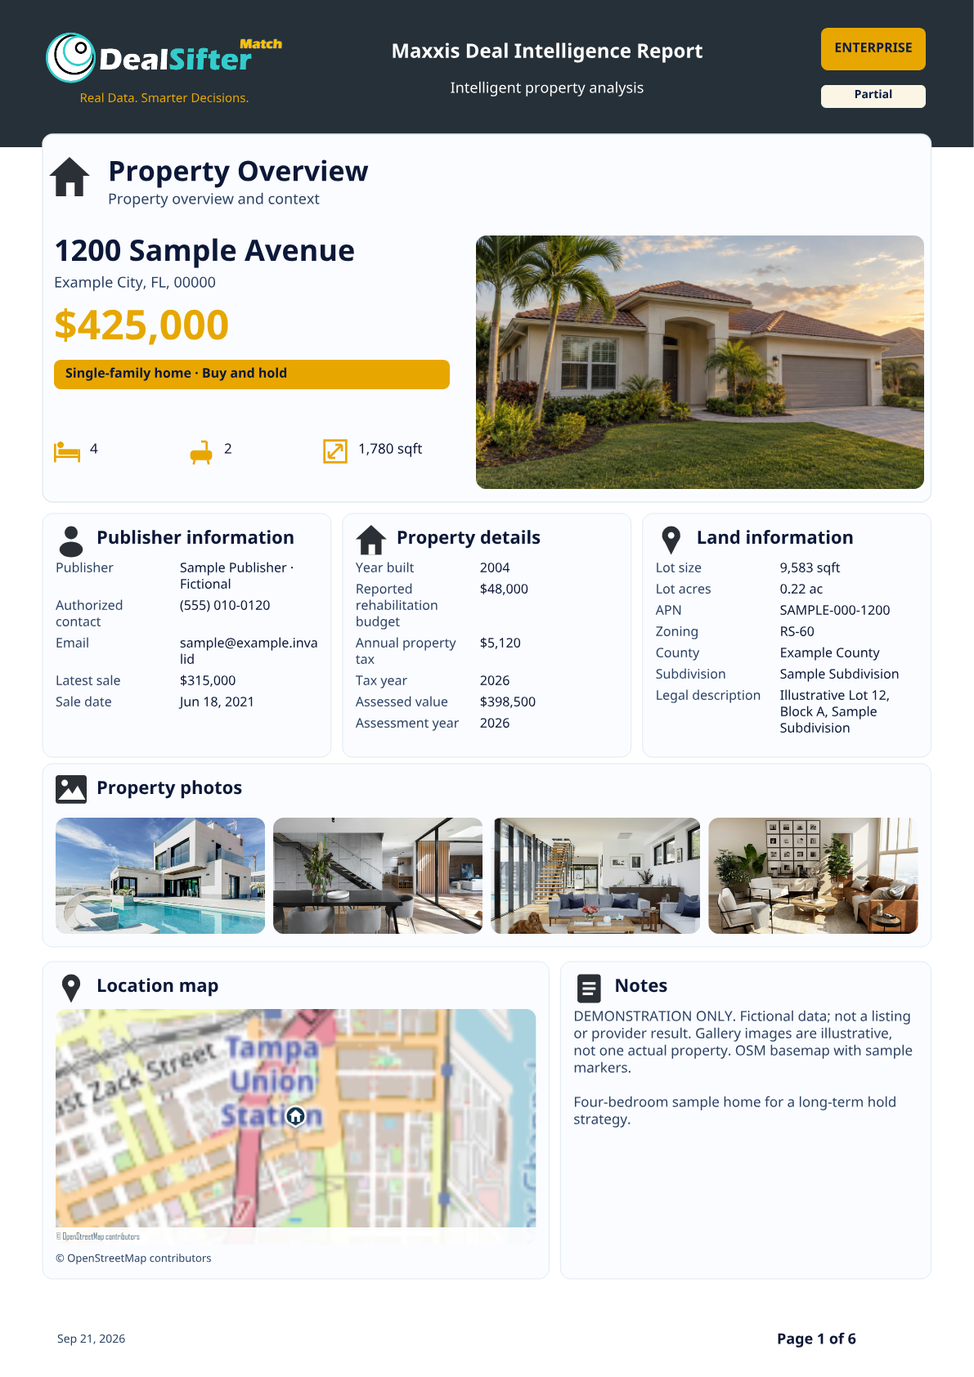
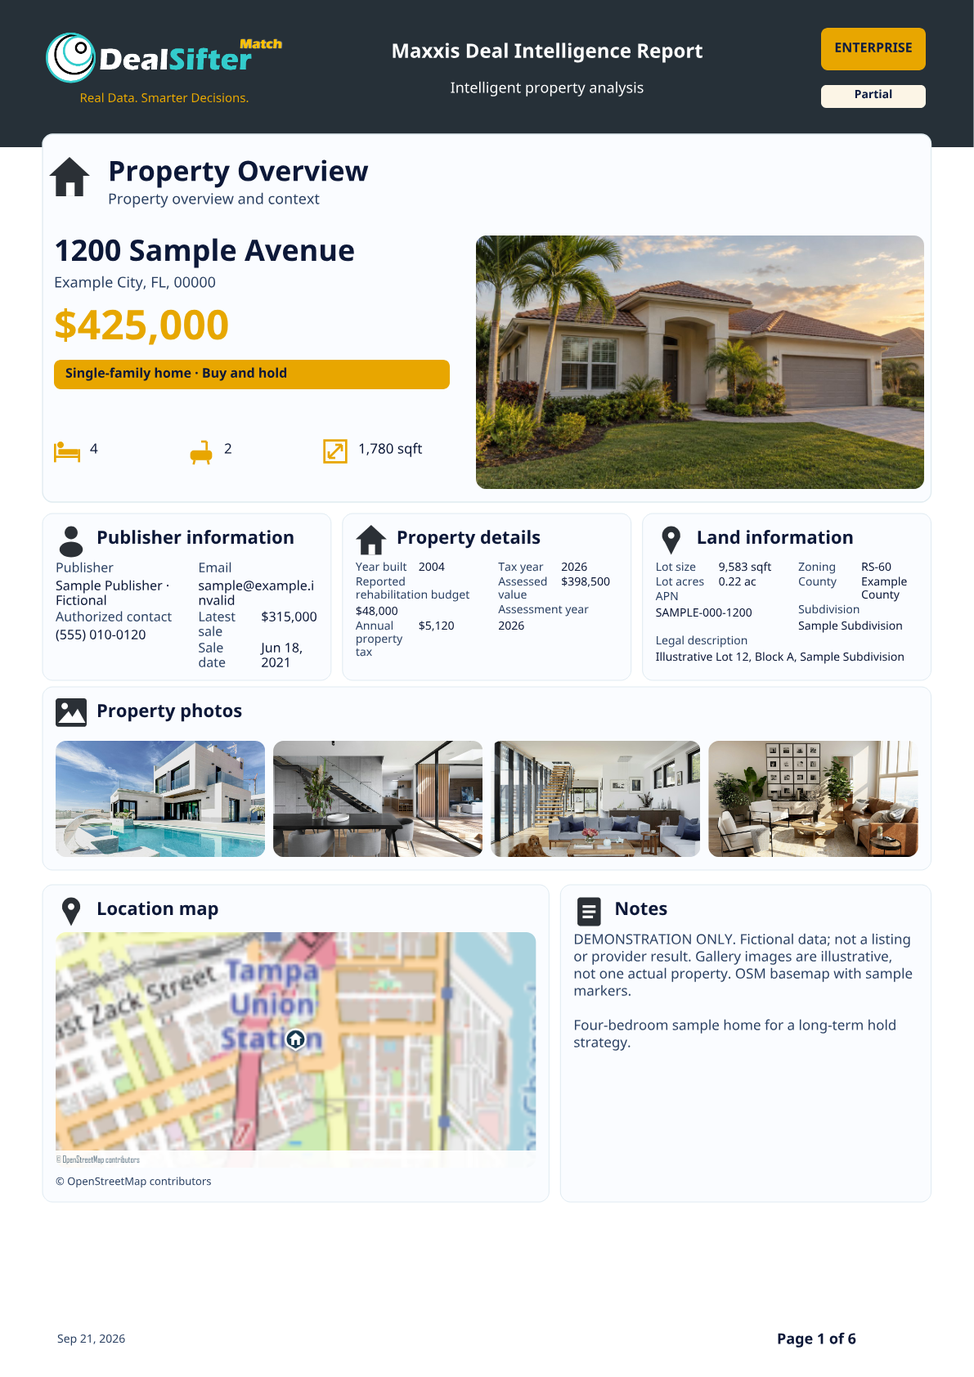
fix(reports): constrain overview facts and expand legal text

Changed region(s): [[0.0311, 0.4014, 0.9631, 0.9264]]

diff --git a/src/features/maxxis/export/referenceCloneComposition.ts b/src/features/maxxis/export/referenceCloneComposition.ts
@@ -2,6 +2,7 @@ import { ReportBrandShell } from './reportBrandShell';
 import { composeReportContent, readableReportDate, type ContentBlock } from './reportContentPlan';
 import { REFERENCE_DESIGN as DESIGN } from './reportReferenceDesign';
 import type { ReportRow } from './reportIntegrityTypes';
+import { layoutReportFacts } from './reportFactLayout';
 type Box = {
   x: number;
   y: number;
@@ -119,28 +120,27 @@ export class ReferenceCloneComposition extends ReportBrandShell {
     return field && labels[field] ? this.t(...labels[field]) : row.label;
   }
   private rowHeight(row: ReportRow, width: number, size = this.font) {
-    return Math.max(this.h(this.keyLabel(row), width * .43, size), this.h(row.value, width * .57 - 7, size)) + 3;
+    return this.factRowsPlan([row], width, size).height;
   }
-  private rows(rows: ReportRow[], b: Box, id: string, size = this.font, columns = 1) {
-    const cell = (b.w - (columns - 1) * 14) / columns;
-    let y = b.y;
-    for (let i = 0; i < rows.length; i += columns) {
-      const pair = rows.slice(i, i + columns),
-        height = Math.max(...pair.map(row => this.rowHeight(row, cell, size)));
-      pair.forEach((row, index) => {
-        const x = b.x + index * (cell + 14);
-        this.write(this.keyLabel(row), x, y, cell * .43, id, size, false, BODY, b.y + b.h);
-        this.write(row.value, x + cell * .43 + 7, y, cell * .57 - 7, id, size, false, INK, b.y + b.h);
-      });
-      y += height;
+  private factRowsPlan(rows: ReportRow[], width: number, size: number, columns = 1, balanced = false) {
+    return layoutReportFacts(rows, width, columns, (text, w) => this.h(text, w, size), row => this.keyLabel(row), balanced);
+  }
+  private rows(rows: ReportRow[], b: Box, id: string, size = this.font, columns = 1, balanced = false) {
+    const plan = this.factRowsPlan(rows, b.w, size, columns, balanced);
+    for (const cell of plan.cells) {
+      const x = b.x + cell.x, y = b.y + cell.y;
+      if (cell.stacked) {
+        const labelEnd = this.write(this.keyLabel(cell.row), x, y, cell.width, id, size, false, BODY, b.y + b.h);
+        this.write(cell.row.value, x, labelEnd + 2, cell.width, id, size, false, INK, b.y + b.h);
+      } else {
+        this.write(this.keyLabel(cell.row), x, y, cell.width * .43, id, size, false, BODY, b.y + b.h);
+        this.write(cell.row.value, x + cell.width * .43 + 7, y, cell.width * .57 - 7, id, size, false, INK, b.y + b.h);
+      }
     }
-    return y;
+    return b.y + plan.height;
   }
   private factsHeight(rows: ReportRow[], width: number, size = this.font, columns = 1) {
-    let h = 0;
-    const cell = (width - (columns - 1) * 14) / columns;
-    for (let i = 0; i < rows.length; i += columns) h += Math.max(...rows.slice(i, i + columns).map(row => this.rowHeight(row, cell, size)));
-    return h;
+    return this.factRowsPlan(rows, width, size, columns).height;
   }
   private range(range: NonNullable<ContentBlock['range']>, b: Box, id: string) {
     const y = b.y + 17;
@@ -494,11 +494,12 @@ export class ReferenceCloneComposition extends ReportBrandShell {
       this.cursor += height + G;
     }
   }
-  private overview(blocks: ContentBlock[]) {
+  private async overview(blocks: ContentBlock[], yieldRendering: () => Promise<void>) {
     const basic = this.vm.reportType === 'PROPERTY_RELEASE',
       p = this.vm.property,
       hero = basic ? DESIGN.release.heroHeight : this.brief ? 132 : !p.photos.length ? 124 : this.enterprise ? 155 : 150;
     this.chapter(this.t('Property Overview', 'Property Overview', 'Property Overview'), this.t('Informações gerais do imóvel', 'Property overview and context', 'Información general del inmueble'), 'home', false, hero);
+    await yieldRendering();
     const top = this.cursor,
       textWidth = p.photos.length ? 246 : W - 14,
       photoX = 291,
@@ -532,6 +533,7 @@ export class ReferenceCloneComposition extends ReportBrandShell {
       h: hero
     }, 1);
     this.used.add('property-overview');
+    await yieldRendering();
     const facts = blocks.filter(block => block.id.startsWith('property-group-'));
     const owner = facts.filter(block => /publisher|publicador/i.test(block.title)),
       sales = facts.filter(block => /sale history|histórico|historial/i.test(block.title));
@@ -550,9 +552,31 @@ export class ReferenceCloneComposition extends ReportBrandShell {
       size = basic ? 7 : 8;
     const weight = groups.reduce((sum, group) => sum + (group === compactRecords ? 2 : 1), 0) || 1;
     const widths = groups.map(group => (W - (count - 1) * G) * (group === compactRecords ? 2 : 1) / weight);
-    const fullHeights = groups.map((group, index) => 38 + this.factsHeight(group.flatMap(block => block.rows || []), widths[index] - 22, size, group === compactRecords ? DESIGN.release.recordsColumns : 1));
-    const factHeight = !groups.length ? 0 : basic ? Math.max(86, ...fullHeights) : this.brief ? Math.max(86, ...fullHeights) : Math.max(100, ...fullHeights),
-      factsTop = top + hero + DESIGN.overview.paddingBottom + DESIGN.overview.factsGap;
+    const priorLineGap = this.flow.lineGap;
+    this.flow.lineGap = DESIGN.facts.lineGap;
+    const factsTop = top + hero + DESIGN.overview.paddingBottom + DESIGN.overview.factsGap,
+      maxFactHeight = Math.max(0, DESIGN.facts.bottom - factsTop),
+      maxBodyHeight = maxFactHeight - DESIGN.facts.headerHeight - DESIGN.facts.bottomPadding;
+    const plans = groups.map((group, index) => {
+      const rows = group.flatMap(block => block.rows || []), width = widths[index] - 16;
+      let columns = group === compactRecords ? DESIGN.release.recordsColumns : 1, fontSize = size;
+      let layout = this.factRowsPlan(rows, width, fontSize, columns, true);
+      if (layout.height > maxBodyHeight && columns === 1) {
+        columns = 2;
+        layout = this.factRowsPlan(rows, width, fontSize, columns, true);
+      }
+      if (layout.height > maxBodyHeight && fontSize > DESIGN.facts.minimumFontSize) {
+        fontSize = DESIGN.facts.minimumFontSize;
+        layout = this.factRowsPlan(rows, width, fontSize, columns, true);
+      }
+      let shown = rows.length;
+      while (shown && layout.height > maxBodyHeight) {
+        shown--;
+        layout = this.factRowsPlan(rows.slice(0, shown), width, fontSize, columns, true);
+      }
+      return { rows: rows.slice(0, shown), tail: rows.slice(shown), layout, columns, fontSize };
+    });
+    const factHeight = !groups.length ? 0 : Math.min(maxFactHeight, Math.max(basic || this.brief ? 86 : 100, ...plans.map(plan => DESIGN.facts.headerHeight + plan.layout.height + DESIGN.facts.bottomPadding)));
     groups.forEach((group, index) => {
       const width = widths[index];
       const b = {
@@ -564,33 +588,11 @@ export class ReferenceCloneComposition extends ReportBrandShell {
       const title = group === publisher ? this.t('Informações do publicador', 'Publisher information', 'Información del publicador') : group === physical ? this.t('Detalhes do imóvel', 'Property details', 'Detalles del inmueble') : group === taxes || group === compactRecords ? this.t('Registros fiscais', 'Tax records', 'Registros fiscales') : this.t('Dados do terreno', 'Land information', 'Datos del terreno');
       const id = 'overview-facts-' + index,
         body = this.frame(b, title, group === publisher ? 'user' : group === physical ? 'home' : 'pin', id);
-      let rowY = body.y;
-      if (group === compactRecords) {
-        rowY = this.rows(group.flatMap(block => block.rows || []), body, id, size, DESIGN.release.recordsColumns);
-        group.forEach(block => this.used.add(block.id));
-      } else for (const block of group) {
-        const shown: ReportRow[] = [],
-          tail: ReportRow[] = [];
-        for (const row of block.rows || []) {
-          const h = this.rowHeight(row, body.w, size);
-          if (!tail.length && rowY + h <= b.y + b.h - 9) {
-            shown.push(row);
-            rowY += h;
-          } else tail.push(row);
-        }
-        const start = rowY - shown.reduce((n, row) => n + this.rowHeight(row, body.w, size), 0);
-        if (shown.length) this.rows(shown, {
-          ...body,
-          y: start,
-          h: b.y + b.h - start - 8
-        }, id, size);
-        if (tail.length) this.details.push({
-          ...block,
-          id: block.id + '-continued',
-          rows: tail
-        });
-        this.used.add(block.id);
-      }
+      body.h = b.h - DESIGN.facts.headerHeight - DESIGN.facts.bottomPadding;
+      const plan = plans[index];
+      let rowY = this.rows(plan.rows, body, id, plan.fontSize, plan.columns, true);
+      if (plan.tail.length) this.details.push({ id: id + '-continued', title, kind: 'facts', rows: plan.tail, readingSection: 1 });
+      group.forEach(block => this.used.add(block.id));
       if (group === physical) {
         const extra: ReportRow[] = [{
           label: this.t('Tipo', 'Property type', 'Tipo'),
@@ -598,19 +600,24 @@ export class ReferenceCloneComposition extends ReportBrandShell {
           evidenceRefs: ['property:identity']
         }, ...metrics];
         for (const row of extra) {
-          const h = this.rowHeight(row, body.w, size);
+          const h = this.rowHeight(row, body.w, plan.fontSize);
           if (rowY + h <= b.y + b.h - 9) {
             this.rows([row], {
               ...body,
               y: rowY,
               h: b.y + b.h - rowY - 8
-            }, id, size);
+            }, id, plan.fontSize);
             rowY += h;
           }
         }
       }
       this.audit(id, title, 'reference-facts', b, 1);
+      const entry = this.flow.audit.sections.at(-1)!;
+      entry.selectedFontSize = plan.fontSize;
+      entry.factColumns = plan.columns;
     });
+    this.flow.lineGap = priorLineGap;
+    await yieldRendering();
     taxes.forEach(block => this.used.add(block.id));
     let next = factsTop + factHeight + DESIGN.gallery.gapBefore;
     const gallery = p.photos.slice(1, 5);
@@ -624,7 +631,10 @@ export class ReferenceCloneComposition extends ReportBrandShell {
         },
         body = this.frame(b, this.t('Fotos do imóvel', 'Property photos', 'Fotos del inmueble'), 'photos', 'property-gallery');
       const cell = (body.w - (gallery.length - 1) * 5) / gallery.length;
-      gallery.forEach((photo, i) => this.flow.image(photo, body.x + i * (cell + 5), b.y + DESIGN.gallery.imageTop, cell, height - DESIGN.gallery.imageTop - DESIGN.gallery.paddingBottom, 'cover'));
+      for (const [i, photo] of gallery.entries()) {
+        this.flow.image(photo, body.x + i * (cell + 5), b.y + DESIGN.gallery.imageTop, cell, height - DESIGN.gallery.imageTop - DESIGN.gallery.paddingBottom, 'cover');
+        await yieldRendering();
+      }
       this.audit('property-gallery', 'Property photos', 'photos', b, 1);
       next += height + 9;
     }
@@ -659,6 +669,7 @@ export class ReferenceCloneComposition extends ReportBrandShell {
       this.write('© OpenStreetMap contributors', body.x, b.y + b.h - 16, body.w, map!.id, 6.5, false, BODY, b.y + b.h);
       this.audit(map!.id, map!.title, 'map', b, 1);
       this.used.add(map!.id);
+      await yieldRendering();
     }
     if (map && !showMap) this.used.add(map.id);
     if (note) {
@@ -1338,7 +1349,7 @@ export class ReferenceCloneComposition extends ReportBrandShell {
       themed = this.enterprise && analytical;
     // Sparse reports keep the same identity without reserving empty analytical panels.
     this.brief = !analytical;
-    this.overview(blocks);
+    await this.overview(blocks, yieldRendering);
     await yieldRendering();
     if (this.vm.reportType === 'PROPERTY_RELEASE') {
       const tail = [...this.details, ...blocks.filter(block => !this.used.has(block.id) && block.id !== 'report-location')];

diff --git a/src/features/maxxis/export/reportFactLayout.ts b/src/features/maxxis/export/reportFactLayout.ts
@@ -1,0 +1,53 @@
+import type { ReportRow } from './reportIntegrityTypes';
+
+type Cell = { row: ReportRow; x: number; y: number; width: number; height: number; stacked: boolean };
+type Measure = (text: string, width: number) => number;
+
+export const isFullWidthFact = (row: ReportRow) => row.evidenceRefs.includes('fact:legalDescription');
+
+/** The drawing and height calculation share one plan; long legal text never uses a value subcolumn. */
+export function layoutReportFacts(rows: readonly ReportRow[], width: number, columns: number, measure: Measure, label: (row: ReportRow) => string, balanced = false) {
+  const cells: Cell[] = [], gap = 14, rowGap = balanced ? 1 : 3, cellWidth = (width - (columns - 1) * gap) / columns;
+  const stacked = (row: ReportRow, w: number) => {
+    if (isFullWidthFact(row)) return true;
+    if (!balanced || columns < 2) return false;
+    const lineHeight = measure('M', w);
+    return label(row).split(/\s+/).some(word => measure(word, w * .43) > lineHeight)
+      || row.value.split(/\s+/).some(word => measure(word, w * .57 - 7) > lineHeight);
+  };
+  const height = (row: ReportRow, w: number) => stacked(row, w)
+    ? measure(label(row), w) + 2 + measure(row.value, w) + rowGap
+    : Math.max(measure(label(row), w * .43), measure(row.value, w * .57 - 7)) + rowGap;
+  let y = 0;
+  const place = (segment: readonly ReportRow[]) => {
+    if (balanced && columns === 2 && segment.length > 1) {
+      const heights = segment.map(row => height(row, cellWidth));
+      let split = 1, best = Infinity;
+      for (let at = 1; at < segment.length; at++) {
+        const candidate = Math.max(heights.slice(0, at).reduce((a, b) => a + b, 0), heights.slice(at).reduce((a, b) => a + b, 0));
+        if (candidate < best) { split = at; best = candidate; }
+      }
+      [segment.slice(0, split), segment.slice(split)].forEach((part, column) => {
+        let next = y;
+        part.forEach(row => { const h = height(row, cellWidth); cells.push({ row, x: column * (cellWidth + gap), y: next, width: cellWidth, height: h, stacked: stacked(row, cellWidth) }); next += h; });
+      });
+      y += best;
+    } else for (let i = 0; i < segment.length; i += columns) {
+      const pair = segment.slice(i, i + columns), h = Math.max(...pair.map(row => height(row, cellWidth)));
+      pair.forEach((row, column) => cells.push({ row, x: column * (cellWidth + gap), y, width: cellWidth, height: height(row, cellWidth), stacked: stacked(row, cellWidth) }));
+      y += h;
+    }
+  };
+  let segment: ReportRow[] = [];
+  // Keep the long description below both short-field columns rather than interrupting them.
+  const ordered = balanced ? [...rows.filter(row => !isFullWidthFact(row)), ...rows.filter(isFullWidthFact)] : rows;
+  for (const row of ordered) {
+    if (!isFullWidthFact(row)) { segment.push(row); continue; }
+    place(segment); segment = [];
+    const h = height(row, width);
+    cells.push({ row, x: 0, y, width, height: h, stacked: true });
+    y += h;
+  }
+  place(segment);
+  return { cells, height: y, columns };
+}

diff --git a/src/features/maxxis/export/maxxisReportPerformance.test.js b/src/features/maxxis/export/maxxisReportPerformance.test.js
@@ -6,7 +6,7 @@ import { resolveReportExportEntitlement } from './reportExportEntitlement';
 
 const schema = buildMaxxisReportSchema({
   reportType: 'DEAL_INTELLIGENCE',
-  property: { id: 'perf-property', address: '9537 Dalegrove Dr', city: 'Beverly Hills', state: 'CA', type: 'SFR', price: 2195000, beds: 3, baths: 2, sqft: 1838, rehab: 65000 },
+  property: { id: 'perf-property', address: '100 Synthetic Example Street', city: 'Example City', state: 'FL', type: 'SFR', price: 425000, beds: 3, baths: 2, sqft: 1838, rehab: 65000 },
   dealIntelligence: {
     executiveDealOverview: 'Performance fixture using deterministic report data.',
     investmentFit: { score: 29 },
@@ -55,21 +55,26 @@ describe('Maxxis report generation performance contract', () => {
   it('records binary assembly time', () => expect(result.timings.assemblyMs).toBeGreaterThanOrEqual(0));
   it('records a duration for every physical page actually rendered', () => expect(result.timings.perPageMs).toHaveLength(result.document.pageCount));
   it('keeps every page duration finite', () => expect(result.timings.perPageMs.every(Number.isFinite)).toBe(true));
-  it('yields the browser main thread between PDF pages', () => {
-    const source = readFileSync(new URL('./maxxisReportPdf.js', import.meta.url), 'utf8');
-    expect(source).toContain('await yieldReportRendering()');
-    expect(source).toContain("globalThis.scheduler?.yield");
+  it('lets a queued browser task run before PDF generation finishes', async () => {
+    let responded = false;
+    vi.stubGlobal('window', {});
+    const timer = setTimeout(() => { responded = true; }, 0);
+    try {
+      const rendered = await renderMaxxisReportPdf(options);
+      expect(rendered.state).toBe('RENDERED');
+      expect(responded).toBe(true);
+    } finally { clearTimeout(timer); vi.unstubAllGlobals(); }
   });
   it('actually schedules browser task breaks during setup, appendices and assembly', async () => {
     let scheduledTasks = 0;
     vi.stubGlobal('window', {});
-    vi.stubGlobal('scheduler', { yield: () => new Promise(resolve => setTimeout(() => { scheduledTasks += 1; resolve(); }, 0)) });
+    const timer = setInterval(() => { scheduledTasks += 1; }, 0);
     try {
       const rendered = await renderMaxxisReportPdf(options);
       expect(rendered.state).toBe('RENDERED');
       expect(scheduledTasks).toBeGreaterThan(rendered.document.pageCount);
       expect(rendered.document.outputValidation.valid).toBe(true);
-    } finally { vi.unstubAllGlobals(); }
+    } finally { clearInterval(timer); vi.unstubAllGlobals(); }
   });
   it('uses cached exports while the inline experience avoids PDF rasterization and provider work', () => {
     const actions = readFileSync(new URL('./MaxxisReportExportActions.jsx', import.meta.url), 'utf8');

diff --git a/src/features/maxxis/export/referenceCloneComposition.test.ts b/src/features/maxxis/export/referenceCloneComposition.test.ts
@@ -82,6 +82,31 @@ describe('reference-specific report compositions', () => {
     expect(audit.lines.filter((line: any) => line.sectionId === 'referenceChapter')).toHaveLength(count);
   });
 
+  it.each(['PROPERTY_RELEASE', 'MAXXIS_ANALYSIS', 'DEAL_INTELLIGENCE'])('keeps dense %s records above the page midpoint and the legal text below its full-width label', async type => {
+    const input = structuredClone(r43Fixtures(gallery).find((fixture: any) => fixture.id === 'rich')!.input);
+    const legal = 'Fictional Lot 5-A, Block 2, Sample Beach Subdivision. Sewer easement across the eastern boundary of the parcel, together with the recorded utility access along the southern lot boundary.';
+    input.property.legalDescription = legal;
+    input.property.subdivision = 'Sample Beach Subdivision';
+    const schema = buildMaxxisReportSchema({ ...input, reportType: type });
+    const result: any = await render(schema, { mapImageData: basemap });
+    expect(result.state).toBe('RENDERED');
+    const audit = result.document.layoutAudit;
+    const facts = audit.sections.filter((s: any) => s.kind === 'reference-facts');
+    expect(facts.length).toBeGreaterThan(0);
+    expect(facts.every((s: any) => s.page === 1 && s.bounds.bottom <= REFERENCE_DESIGN.page.height / 2)).toBe(true);
+    expect(facts.some((s: any) => s.factColumns === 2)).toBe(true);
+    const label = audit.lines.find((line: any) => line.text === 'Legal description');
+    expect(label).toBeDefined();
+    const value = audit.lines.find((line: any) => line.sectionId === label.sectionId && line.text.startsWith('Fictional Lot'));
+    expect(value.page).toBe(label.page);
+    expect(value.y).toBeGreaterThanOrEqual(label.bottomY + 1);
+    expect(value.x).toBe(label.x);
+    expect(value.contentBounds.width).toBeGreaterThanOrEqual(label.contentBounds.width);
+    expect(normalize(audit.lines.filter((line: any) => line.sectionId === label.sectionId).map((line: any) => line.text).join(' '))).toContain(legal);
+    expect(audit.lines.every((line: any) => line.overflowX === 0 && line.overflowY === 0)).toBe(true);
+    expect(result.document.pageCount).toBeLessThanOrEqual(type === 'PROPERTY_RELEASE' ? 1 : type === 'MAXXIS_ANALYSIS' ? 3 : 6);
+  }, 30000);
+
   it('uses the two-by-two profile and verification compositions and separate map/table panels', () => {
     const audit = report.document.layoutAudit;
     const profile = audit.sections.find((s: any) => s.kind === 'reference-profile');

diff --git a/src/features/maxxis/export/reportFactLayout.test.ts b/src/features/maxxis/export/reportFactLayout.test.ts
@@ -1,0 +1,31 @@
+import { describe, expect, it } from 'vitest';
+import { layoutReportFacts } from './reportFactLayout';
+import type { ReportRow } from './reportIntegrityTypes';
+
+const row = (label: string, value: string, field = label): ReportRow => ({ label, value, evidenceRefs: ['fact:' + field] });
+const measure = (text: string, width: number) => Math.ceil(text.length * 4 / width) * 10;
+
+describe('full-width report facts', () => {
+  it.each([1, 2])('puts the complete legal description below its label across %i-column records', columns => {
+    const legal = row('Legal description', 'Fictional Lot 5, Block A. Easement across the east boundary of the sample parcel.', 'legalDescription');
+    const rows = [row('County', 'Sample County'), legal, row('Tax year', '2026')], before = JSON.stringify(rows);
+    const plan = layoutReportFacts(rows, 260, columns, measure, value => value.label, true);
+    const cell = plan.cells.find(cell => cell.row === legal)!;
+    expect(cell).toMatchObject({ x: 0, width: 260, stacked: true });
+    expect(cell.height).toBe(measure(legal.label, 260) + 2 + measure(legal.value, 260) + 1);
+    expect(plan.cells.map(cell => cell.row)).toHaveLength(rows.length);
+    expect(JSON.stringify(rows)).toBe(before);
+    for (const a of plan.cells) for (const b of plan.cells) if (a !== b) {
+      expect(a.x < b.x + b.width && b.x < a.x + a.width && a.y < b.y + b.height && b.y < a.y + a.height).toBe(false);
+    }
+  });
+
+  it('balances variable-height facts in two independent columns without losing values', () => {
+    const rows = [row('APN', '000-000'), row('Subdivision', 'Illustrative subdivision with a deliberately longer name'), row('County', 'Example'), row('Year', '2004'), row('Tax', '$5,000')];
+    const pairwise = layoutReportFacts(rows, 300, 2, measure, value => value.label);
+    const balanced = layoutReportFacts(rows, 300, 2, measure, value => value.label, true);
+    expect(balanced.height).toBeLessThanOrEqual(pairwise.height);
+    expect(balanced.cells.map(cell => cell.row)).toEqual(rows);
+    expect(new Set(balanced.cells.map(cell => cell.x)).size).toBe(2);
+  });
+});

diff --git a/src/features/maxxis/export/strictReportPdf.ts b/src/features/maxxis/export/strictReportPdf.ts
@@ -12,7 +12,7 @@ interface AuditLine {
   fontSize: number; lineHeight: number; lineIndex: number; contentBounds: Bounds; cardBounds: Bounds; overflowX: number; overflowY: number;
   role: 'body' | 'caption';
 }
-interface AuditSection { sectionId: string; title: string; kind: string; page: number; availableHeight: number; renderedLines: number; selectedFontSize: number; clippedLines: number; overflowPixels: number; bounds: Bounds; readingSection?: number; assertionIds?: string[] }
+interface AuditSection { sectionId: string; title: string; kind: string; page: number; availableHeight: number; renderedLines: number; selectedFontSize: number; clippedLines: number; overflowPixels: number; bounds: Bounds; readingSection?: number; assertionIds?: string[]; factColumns?: number }
 interface AuditContinuation { sectionId: string; title: string; kind: string; page: number }
 interface AuditMap { sectionId: string; page: number; bounds: Bounds; points: { id: string; marker: string; x: number; y: number; radius: number }[] }
 export interface StrictPdfAudit { lines: AuditLine[]; sections: AuditSection[]; continuations: AuditContinuation[]; maps: AuditMap[] }

diff --git a/src/features/maxxis/export/reportReferenceDesign.ts b/src/features/maxxis/export/reportReferenceDesign.ts
@@ -7,6 +7,7 @@ export const REFERENCE_DESIGN = Object.freeze({
   // The opening title sits inside the overlapping card; later titles follow the strip.
   heading: { y: 96, continuedY: 164, topPadding: 14, continuedTopPadding: 24, bottomPadding: 14, height: 34, icon: 25, textX: 66, titleSize: 17, subtitleSize: 9 },
   overview: { cardY: 82, paddingBottom: 8, factsGap: 7, y: 144, height: 155, photoX: 291, photoWidth: 274, factsY: 314, minFactsHeight: 100, mapWidthRatio: .57, mapHeight: 194 },
+  facts: { bottom: 841.89 / 2, minimumFontSize: 7, lineGap: 1, headerHeight: 29, bottomPadding: 5 },
   gallery: { gapBefore: 4, imageTop: 33, paddingBottom: 8, heights: { PROPERTY_RELEASE: 110, MAXXIS_ANALYSIS: 125, DEAL_INTELLIGENCE: 112 } },
   release: { heroHeight: 134, tailReserve: 78, compactTailReserve: 42, recordsColumns: 2 },
   comparableMaps: { pairedHeight: 165, singleHeight: 190 },

diff --git a/src/features/maxxis/export/maxxisReportPdf.js b/src/features/maxxis/export/maxxisReportPdf.js
@@ -19,7 +19,7 @@ const performanceNow = () => typeof performance !== 'undefined' && typeof perfor
 const roundedMs = elapsed => Math.round(elapsed * 10) / 10;
 const yieldReportRendering = () => {
   if (typeof window === 'undefined') return Promise.resolve();
-  if (typeof globalThis.scheduler?.yield === 'function') return globalThis.scheduler.yield();
+  // A timer also lets input/paint and normal-priority work run on the compatibility path.
   return new Promise(resolve => setTimeout(resolve, 0));
 };
 function emitReportStage(stage, detail = {}) {
